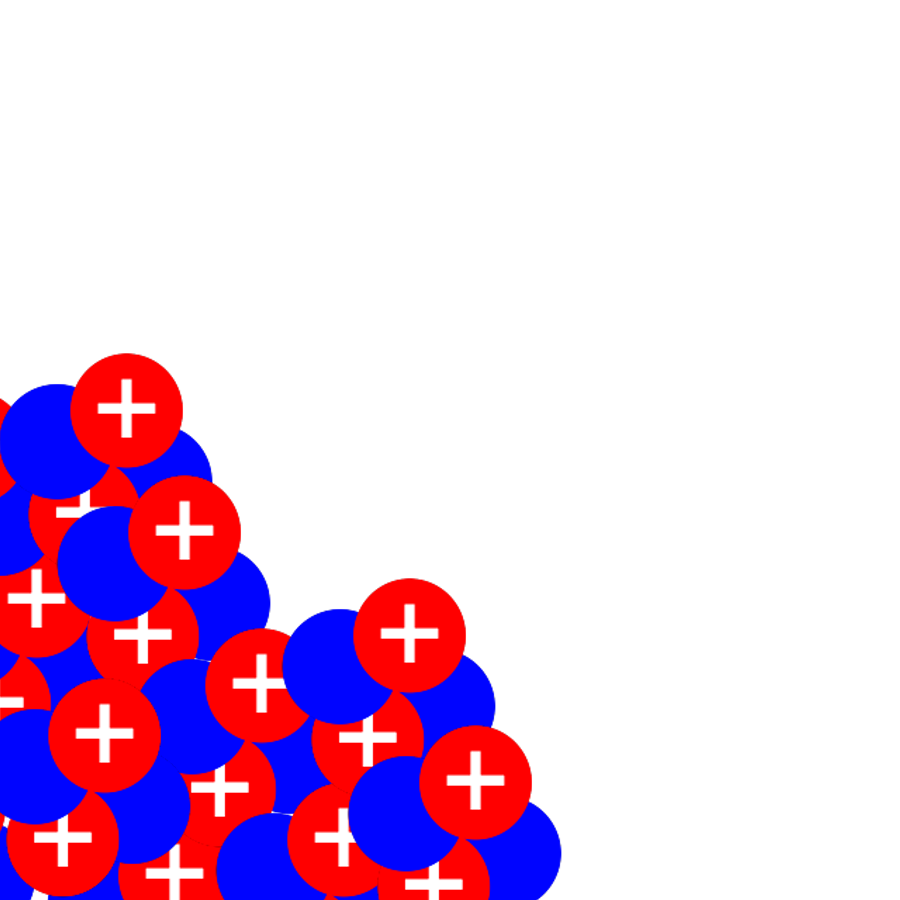
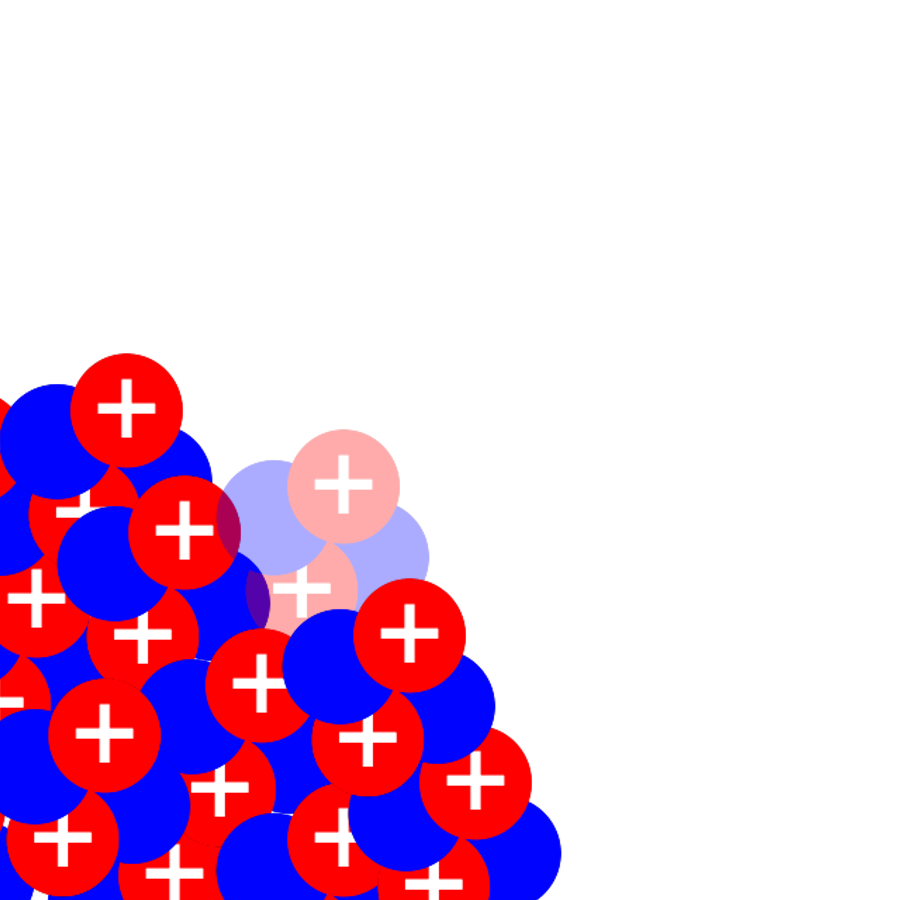
afterimage

Changed region(s): [[0.2178, 0.4667, 0.4978, 0.7156], [0.3733, 0.8089, 0.56, 0.9022]]

diff --git a/scripts/s3.js b/scripts/s3.js
@@ -4,6 +4,12 @@ const ctx = canvas.getContext("2d");
 
 const animateButton = document.getElementById("animateButton");
 
+var heavynuclear0Img = new Image();
+heavynuclear0Img.onload = function () {
+  ctx.drawImage(heavynuclear0Img, 0, 0, 900, 900);
+};
+heavynuclear0Img.src = "/img/heavynuclear0.png";
+
 var heavynuclearImg = new Image();
 heavynuclearImg.onload = function () {
   ctx.drawImage(heavynuclearImg, 0, 0, 900, 900);
@@ -39,7 +45,7 @@ function animate() {
 
   ctx.drawImage(heavynuclearImg, 0, 0, 900, 900);
   ctx.drawImage(heImg, x, 440 - (x - initial_x) * 0.5, 200, 200);
-  ctx.drawImage(energy3Img, 0, 0, 900, 900);
+  ctx.drawImage(energy3Img, 0, 0, 940, 880);
 
   x += 15;
 
